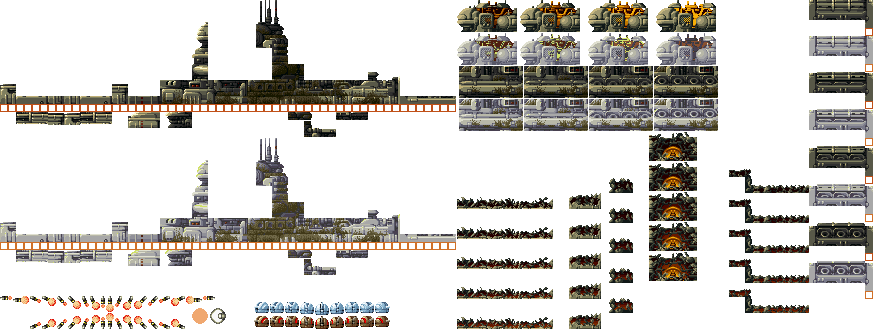
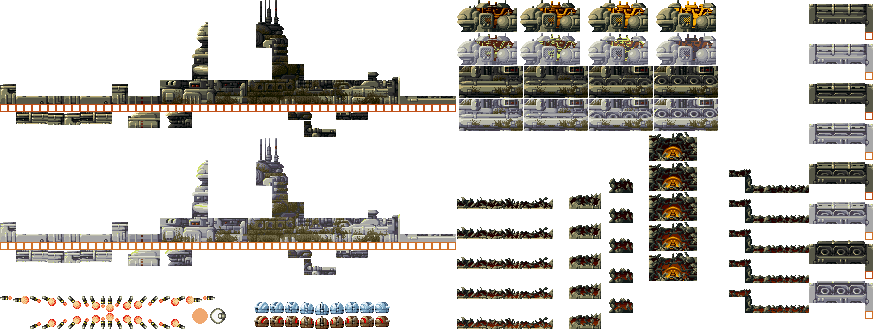
added second full missile launcher platform to submarine

Changed region(s): [[0.9278, 0.0, 1.0, 0.9726]]

diff --git a/EnemySubmarine.cpp b/EnemySubmarine.cpp
@@ -196,26 +196,49 @@ EnemySubmarine::EnemySubmarine(int x, int y, powerUpTypes type, SDL_Texture* thi
 	ejectionHatch.collider = extraColliders[9] = App->collision->AddCollider({0,0, 60,32}, COLLIDER_ENEMY, (Module*)App->enemies);
 	ejectionHatch.life = 40;
 	// missiles platforms launchers anim
-	missileLauncher.anim[NORMAL_ANIM].PushBack({ 459,66,64,32 });
-	missileLauncher.anim[NORMAL_ANIM].PushBack({ 524,66,64,32 });
-	missileLauncher.anim[NORMAL_ANIM].PushBack({ 589,66,64,32 });
-	missileLauncher.anim[NORMAL_ANIM].PushBack({ 654,66,64,32 }); // max open
-	missileLauncher.anim[NORMAL_ANIM].PushBack({ 589,66,64,32 }); // returning to 0 pos
-	missileLauncher.anim[NORMAL_ANIM].PushBack({ 524,66,64,32 });
-	missileLauncher.anim[NORMAL_ANIM].PushBack({ 459,66,64,32 });
-	missileLauncher.anim[NORMAL_ANIM].speed = 0.125f;
-	missileLauncher.anim[NORMAL_ANIM].repeat = false;
+	missileLauncher[0].anim[NORMAL_ANIM].PushBack({ 459,66,64,32 });
+	missileLauncher[0].anim[NORMAL_ANIM].PushBack({ 524,66,64,32 });
+	missileLauncher[0].anim[NORMAL_ANIM].PushBack({ 589,66,64,32 });
+	missileLauncher[0].anim[NORMAL_ANIM].PushBack({ 654,66,64,32 }); // max open
+	missileLauncher[0].anim[NORMAL_ANIM].PushBack({ 589,66,64,32 }); // returning to 0 pos
+	missileLauncher[0].anim[NORMAL_ANIM].PushBack({ 524,66,64,32 });
+	missileLauncher[0].anim[NORMAL_ANIM].PushBack({ 459,66,64,32 });
+	missileLauncher[0].anim[NORMAL_ANIM].speed = 0.125f;
+	missileLauncher[0].anim[NORMAL_ANIM].repeat = false;
 	// ---
-	missileLauncher.anim[DAMAGE_ANIM].PushBack({ 459,99,64,32 });
-	missileLauncher.anim[DAMAGE_ANIM].PushBack({ 524,99,64,32 });
-	missileLauncher.anim[DAMAGE_ANIM].PushBack({ 589,99,64,32 });
-	missileLauncher.anim[DAMAGE_ANIM].PushBack({ 654,99,64,32 }); // max open
-	missileLauncher.anim[DAMAGE_ANIM].PushBack({ 589,99,64,32 });
-	missileLauncher.anim[DAMAGE_ANIM].PushBack({ 524,99,64,32 });
-	missileLauncher.anim[DAMAGE_ANIM].PushBack({ 459,99,64,32 }); // initial pos
-	missileLauncher.anim[DAMAGE_ANIM].speed = 0.125f;
-	missileLauncher.anim[DAMAGE_ANIM].repeat = false;
-	missileLauncher.position = { 208, 48 };
+	missileLauncher[0].anim[DAMAGE_ANIM].PushBack({ 459,99,64,32 });
+	missileLauncher[0].anim[DAMAGE_ANIM].PushBack({ 524,99,64,32 });
+	missileLauncher[0].anim[DAMAGE_ANIM].PushBack({ 589,99,64,32 });
+	missileLauncher[0].anim[DAMAGE_ANIM].PushBack({ 654,99,64,32 }); // max open
+	missileLauncher[0].anim[DAMAGE_ANIM].PushBack({ 589,99,64,32 });
+	missileLauncher[0].anim[DAMAGE_ANIM].PushBack({ 524,99,64,32 });
+	missileLauncher[0].anim[DAMAGE_ANIM].PushBack({ 459,99,64,32 }); // initial pos
+	missileLauncher[0].anim[DAMAGE_ANIM].speed = 0.125f;
+	missileLauncher[0].anim[DAMAGE_ANIM].repeat = false;
+	missileLauncher[0].position = { 208, 48 };
+	// -----------------------------------
+	// missile platform launcher 2 anim
+	missileLauncher[1].anim[NORMAL_ANIM].PushBack({ 809,0,64,40 });
+	missileLauncher[1].anim[NORMAL_ANIM].PushBack({ 809,80,64,40 });
+	missileLauncher[1].anim[NORMAL_ANIM].PushBack({ 809,160,64,40 });
+	missileLauncher[1].anim[NORMAL_ANIM].PushBack({ 809,240,64,40 }); // max open
+	missileLauncher[1].anim[NORMAL_ANIM].PushBack({ 809,160,64,40 }); // returning to 0 pos
+	missileLauncher[1].anim[NORMAL_ANIM].PushBack({ 809,80,64,40 });
+	missileLauncher[1].anim[NORMAL_ANIM].PushBack({ 809,0,64,40 });
+	missileLauncher[1].anim[NORMAL_ANIM].speed = 0.125f;
+	missileLauncher[1].anim[NORMAL_ANIM].repeat = false;
+	// ---
+	missileLauncher[1].anim[DAMAGE_ANIM].PushBack({ 809,40,64,40 });
+	missileLauncher[1].anim[DAMAGE_ANIM].PushBack({ 809,120,64,40 });
+	missileLauncher[1].anim[DAMAGE_ANIM].PushBack({ 809,200,64,40 });
+	missileLauncher[1].anim[DAMAGE_ANIM].PushBack({ 809,280,64,40 }); // max open
+	missileLauncher[1].anim[DAMAGE_ANIM].PushBack({ 809,200,64,40 });
+	missileLauncher[1].anim[DAMAGE_ANIM].PushBack({ 809,120,64,40 });
+	missileLauncher[1].anim[DAMAGE_ANIM].PushBack({ 809,40,64,40 }); // initial pos
+	missileLauncher[1].anim[DAMAGE_ANIM].speed = 0.125f;
+	missileLauncher[1].anim[DAMAGE_ANIM].repeat = false;
+	missileLauncher[1].position = { 400, 72 };
+
 
 	// ------------------------------------------------------------------------------------------------------------------
 	// SUBMARINE TURRETS
@@ -250,19 +273,31 @@ EnemySubmarine::EnemySubmarine(int x, int y, powerUpTypes type, SDL_Texture* thi
 	// -----------------------------------------------------------------------
 	// missiles flash ---
 	// first assign the number of canyons of each missile launcher platform
-	missileLauncher.canyons = 4;
-	// assign canyons positions
-	missileLauncher.canyonsPos[0] = { 0, 6 };
-	missileLauncher.canyonsPos[1] = { 16, 6 };
-	missileLauncher.canyonsPos[2] = { 32, 6 };
-	missileLauncher.canyonsPos[3] = { 48, 6 };
+	missileLauncher[0].canyons = 4;
+	missileLauncher[1].canyons = 3;
+	// assign canyons positions first platform
+	missileLauncher[0].canyonsPos[0] = { 0, 6 };
+	missileLauncher[0].canyonsPos[1] = { 16, 6 };
+	missileLauncher[0].canyonsPos[2] = { 32, 6 };
+	missileLauncher[0].canyonsPos[3] = { 48, 6 };
+	// assign canyons positions second platform
+	missileLauncher[1].canyonsPos[0] = { 8, 3 };
+	missileLauncher[1].canyonsPos[1] = { 24, 3 };
+	missileLauncher[1].canyonsPos[2] = { 40, 3 };
 	// flash animation
-	for (uint i = 0; i < missileLauncher.canyons; ++i)
+	for (int i = 0; i < missileLauncher[0].canyons; ++i)
 	{
-		missileLauncher.missileFlashAnim[i].PushBack({ 192,308,16,16 });
-		missileLauncher.missileFlashAnim[i].PushBack({ 210,308,16,16 });
-		missileLauncher.missileFlashAnim[i].speed = 0.25f;
-		missileLauncher.missileFlashAnim[i].repeat = false;
+		missileLauncher[0].missileFlashAnim[i].PushBack({ 192,308,16,16 });
+		missileLauncher[0].missileFlashAnim[i].PushBack({ 210,308,16,16 });
+		missileLauncher[0].missileFlashAnim[i].speed = 0.25f;
+		missileLauncher[0].missileFlashAnim[i].repeat = false;
+	}
+	for (int i = 0; i < missileLauncher[1].canyons; ++i)
+	{
+		missileLauncher[1].missileFlashAnim[i].PushBack({ 192,308,16,16 });
+		missileLauncher[1].missileFlashAnim[i].PushBack({ 210,308,16,16 });
+		missileLauncher[1].missileFlashAnim[i].speed = 0.25f;
+		missileLauncher[1].missileFlashAnim[i].repeat = false;
 	}
 	// -------------------------------------------------------------------------
 
@@ -291,16 +326,16 @@ EnemySubmarine::EnemySubmarine(int x, int y, powerUpTypes type, SDL_Texture* thi
 	start_ejectable_time = SDL_GetTicks();
 	start_missiles_time = SDL_GetTicks();
 
-
-
 	//position.x = -160;
 	//position.x = 10;
 	//position.y = 100;
 
-	// original positions 
+	// original positions ----- for PATH ----
 
 	original_pos.x = -72;
 	original_pos.y = 192;
+
+	// --------------------------------------
 
 	// SUBMARINE PATH
 	submarinePath.PushBack({1,0},272); // wait //300
@@ -605,7 +640,8 @@ void EnemySubmarine::Draw()
 	{
 		receiveDamage = false;
 		// deactivate missiles launchers damage too
-		missileLauncher.takenDamage = false;
+		missileLauncher[0].takenDamage = false;
+		missileLauncher[1].takenDamage = false;
 	}
 
 	//if we are taken damage, print only the full body and the alive destroyable parts damage sprite --
@@ -621,7 +657,8 @@ void EnemySubmarine::Draw()
 		}
 
 		// missile launchers
-		missileLauncher.takenDamage = true;
+		missileLauncher[0].takenDamage = true;
+		missileLauncher[1].takenDamage = true;
 	}
 
 	// -------------------------------------------------------------------------------------------------------------------
@@ -694,101 +731,108 @@ void EnemySubmarine::Draw()
 
 	// missile launchers
 
-	if (!missileLauncher.destroyed)
+	for (int i = 0; i < 2; ++i)
 	{
-		now_missiles_time = SDL_GetTicks() - start_missiles_time;
-		if (now_missiles_time > missiles_cadence_timer && missileLauncher.readyToEject)
+		if (!missileLauncher[i].destroyed)
 		{
-			missileLauncher.throwEnemy = true;
-			LOG("throwing enemy MISSILES");
-			missileLauncher.readyToEject = false;
-			missileLauncher.readyToLaunch = true; // ready for launch missiles
-		}
-
-		// swap damage/normal sprites
-		if (!missileLauncher.takenDamage)
-		{
-			missileLauncher.current_animation = &missileLauncher.anim[NORMAL_ANIM];
-			missileLauncher.current_animation->current_frame = missileLauncher.current_frame;
-
-		}
-		else
-		{
-			missileLauncher.current_animation = &missileLauncher.anim[DAMAGE_ANIM];
-			missileLauncher.current_animation->current_frame = missileLauncher.current_frame;
-		}
-
-		if (!missileLauncher.throwEnemy)
-		{
-			missileLauncher.rect = missileLauncher.current_animation->frames[0];
-		}
-		else
-		{
-			missileLauncher.rect = missileLauncher.current_animation->GetCurrentFrame();
-			if (missileLauncher.current_animation->finish)
+			now_missiles_time = SDL_GetTicks() - start_missiles_time;
+			if (now_missiles_time > missiles_cadence_timer && missileLauncher[i].readyToEject)
 			{
-				missileLauncher.throwEnemy = false;
-				LOG("stop MISSILES enemy launching");
-				start_missiles_time = SDL_GetTicks();
-				missileLauncher.readyToEject = true;
-
-				// reset damage and normal anim
-				missileLauncher.anim[NORMAL_ANIM].current_frame = 0;
-				missileLauncher.anim[NORMAL_ANIM].finish = false;
-				missileLauncher.anim[DAMAGE_ANIM].current_frame = 0;
-				missileLauncher.anim[DAMAGE_ANIM].finish = false;
+				missileLauncher[i].throwEnemy = true;
+				LOG("throwing enemy MISSILES");
+				missileLauncher[i].readyToEject = false;
+				missileLauncher[i].readyToLaunch = true; // ready for launch missiles
 			}
-		}
 
-		missileLauncher.current_frame = missileLauncher.current_animation->current_frame;
-
-		App->render->Blit(enemyTex, position.x + missileLauncher.position.x, position.y + missileLauncher.position.y, &missileLauncher.rect);
-
-		// check to instantiate missiles
-		if ((int)missileLauncher.current_frame == 3 && missileLauncher.readyToLaunch) // if the animation arrives to max open 
-		{
-			//launchMissiles = true;
-			missileLauncher.readyToLaunch = false;
-			missileLauncher.missilesFlash = true; // first play flash animation
-		}
-
-		if (missileLauncher.missilesFlash)
-		{
-			if (missileLauncher.missileFlashAnim[missileLauncher.canyons - 1].finish) // when the last canyon finish its flash anim
+			// swap damage/normal sprites
+			if (!missileLauncher[i].takenDamage)
 			{
-				// resets animation for next launch
-				for (uint i = 0; i < missileLauncher.canyons; ++i)
+				missileLauncher[i].current_animation = &missileLauncher[i].anim[NORMAL_ANIM];
+				missileLauncher[i].current_animation->current_frame = missileLauncher[i].current_frame;
+
+			}
+			else
+			{
+				missileLauncher[i].current_animation = &missileLauncher[i].anim[DAMAGE_ANIM];
+				missileLauncher[i].current_animation->current_frame = missileLauncher[i].current_frame;
+			}
+
+			if (!missileLauncher[i].throwEnemy)
+			{
+				missileLauncher[i].rect = missileLauncher[i].current_animation->frames[0];
+			}
+			else
+			{
+				missileLauncher[i].rect = missileLauncher[i].current_animation->GetCurrentFrame();
+				if (missileLauncher[i].current_animation->finish)
 				{
-					missileLauncher.missileFlashAnim[i].finish = false;
-					missileLauncher.missileFlashAnim[i].current_frame = 0;
+					missileLauncher[i].throwEnemy = false;
+					LOG("stop MISSILES enemy launching");
+					start_missiles_time = SDL_GetTicks();
+					missileLauncher[i].readyToEject = true;
+
+					// reset damage and normal anim
+					missileLauncher[i].anim[NORMAL_ANIM].current_frame = 0;
+					missileLauncher[i].anim[NORMAL_ANIM].finish = false;
+					missileLauncher[i].anim[DAMAGE_ANIM].current_frame = 0;
+					missileLauncher[i].anim[DAMAGE_ANIM].finish = false;
 				}
-				// update condition
-				missileLauncher.missilesFlash = false;
-				// launch missiles
-				missileLauncher.launchMissiles = true;
 			}
 
-			for (uint i = 0; i < missileLauncher.canyons; ++i)
+			missileLauncher[i].current_frame = missileLauncher[i].current_animation->current_frame;
+
+			App->render->Blit(enemyTex, position.x + missileLauncher[i].position.x, position.y + missileLauncher[i].position.y, &missileLauncher[i].rect);
+
+			// check to instantiate missiles
+			if ((int)missileLauncher[i].current_frame == 3 && missileLauncher[i].readyToLaunch) // if the animation arrives to max open 
 			{
-				App->render->Blit(enemyTex, position.x + missileLauncher.position.x + missileLauncher.canyonsPos[i].x,
-					position.y + missileLauncher.position.y + missileLauncher.canyonsPos[i].y, &missileLauncher.missileFlashAnim[i].GetCurrentFrame());
+				//launchMissiles = true;
+				missileLauncher[i].readyToLaunch = false;
+				missileLauncher[i].missilesFlash = true; // first play flash animation
 			}
-			
-		}
 
-		if (missileLauncher.launchMissiles)
-		{
-			// instantiate missiles
-			App->enemies->AddEnemy(HOMINGMISSILE, position.x + 8 + missileLauncher.position.x, position.y + missileLauncher.position.y, NONE);
-			App->enemies->AddEnemy(HOMINGMISSILE, position.x + 24 + missileLauncher.position.x, position.y + missileLauncher.position.y, NONE);
-			App->enemies->AddEnemy(HOMINGMISSILE, position.x + 40 + missileLauncher.position.x, position.y + missileLauncher.position.y, NONE);
-			App->enemies->AddEnemy(HOMINGMISSILE, position.x + 56 + missileLauncher.position.x, position.y + missileLauncher.position.y, NONE);
-			missileLauncher.launchMissiles = false;
-		}
+			if (missileLauncher[i].missilesFlash)
+			{
+					if (missileLauncher[i].missileFlashAnim[missileLauncher[i].canyons - 1].finish) // when the last canyon finish its flash anim
+					{
+						// resets animation for next launch
+						for (int z = 0; z < missileLauncher[i].canyons; ++z)
+						{
+							missileLauncher[i].missileFlashAnim[z].finish = false;
+							missileLauncher[i].missileFlashAnim[z].current_frame = 0;
+						}
+						// update condition
+						missileLauncher[i].missilesFlash = false;
+						// launch missiles
+						missileLauncher[i].launchMissiles = true;
+					}
 
+					// DRAW FLASHES
+					for (int z = 0; z < missileLauncher[i].canyons; ++z)
+					{
+					App->render->Blit(enemyTex, position.x + missileLauncher[i].position.x + missileLauncher[i].canyonsPos[z].x,
+						position.y + missileLauncher[i].position.y + missileLauncher[i].canyonsPos[z].y, &missileLauncher[i].missileFlashAnim[z].GetCurrentFrame());
+					}
+
+			}
+
+			if (missileLauncher[i].launchMissiles)
+			{
+				// instantiate missiles
+				for (uint z = 0; z < missileLauncher[i].canyons; ++z)
+				{
+					App->enemies->AddEnemy(HOMINGMISSILE, position.x + missileLauncher[i].position.x + missileLauncher[i].canyonsPos[z].x, 
+						position.y + missileLauncher[i].position.y + missileLauncher[i].canyonsPos[z].y, NONE);
+				}
+				//App->enemies->AddEnemy(HOMINGMISSILE, position.x + 8 + missileLauncher[i].position.x, position.y + missileLauncher[i].position.y, NONE);
+				//App->enemies->AddEnemy(HOMINGMISSILE, position.x + 24 + missileLauncher[i].position.x, position.y + missileLauncher[i].position.y, NONE);
+				//App->enemies->AddEnemy(HOMINGMISSILE, position.x + 40 + missileLauncher[i].position.x, position.y + missileLauncher[i].position.y, NONE);
+				//App->enemies->AddEnemy(HOMINGMISSILE, position.x + 56 + missileLauncher[i].position.x, position.y + missileLauncher[i].position.y, NONE);
+				missileLauncher[i].launchMissiles = false;
+			}
+
+		}
 	}
-
-	
 
 	// -----------------------------------------------------------------------------------------------
 	// draw submarine waves apparition

diff --git a/EnemySubmarine.h b/EnemySubmarine.h
@@ -76,7 +76,7 @@ private:
 		bool launchMissiles = false;
 		bool readyToLaunch = false;
 		bool missilesFlash = false;
-		uint canyons;
+		int canyons;
 		iPoint canyonsPos[4];
 		// ---------------------
 
@@ -141,7 +141,7 @@ public:
 
 	DestroyableStatic nonDestroyedParts[NUM_NONDESTROYED_PARTS];
 	DestroyableAnimated ejectionHatch;
-	DestroyableAnimated missileLauncher;
+	DestroyableAnimated missileLauncher[2];
 	turrets submarineTurrets[NUM_TURRETS];
 	iPoint submarineTurretsPositions[NUM_TURRETS] = { {33,28}, {65,28}, {97,28}, {145,20}, {177, 4}, {289, -4}, {321, 12}, {353,12} };
 
